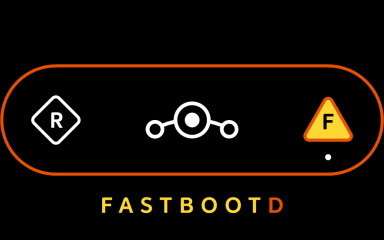
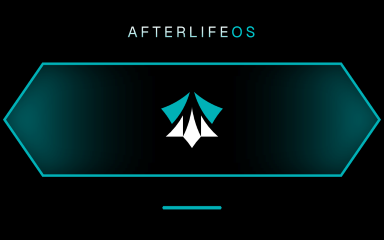
recovery_ui: Adapt images for AfterlifeOS

diff --git a/recovery_ui/screen_ui.cpp b/recovery_ui/screen_ui.cpp
@@ -590,15 +590,15 @@ void ScreenRecoveryUI::SetColor(UIElement e) const {
       break;
     case UIElement::INFO:
       if (fastbootd_logo_enabled_)
-        gr_color(0xfd, 0xd8, 0x35, 255);
-      else
-        gr_color(0xf8, 0x90, 0xff, 255);
+       gr_color(0x22, 0x7b, 0xf6, 255);
+    else
+       gr_color(0, 191, 255, 255);
       break;
     case UIElement::HEADER:
       if (fastbootd_logo_enabled_)
-        gr_color(0xfd, 0xd8,0x35, 255);
-      else
-        gr_color(0xf8, 0x90, 0xff, 255);
+       gr_color(0x22, 0x7b, 0xf6, 255);
+    else
+       gr_color(0, 191, 255, 255);
       break;
     case UIElement::MENU:
       gr_color(0xd8, 0xd8, 0xd8, 255);
@@ -606,9 +606,9 @@ void ScreenRecoveryUI::SetColor(UIElement e) const {
     case UIElement::MENU_SEL_BG:
     case UIElement::SCROLLBAR:
       if (fastbootd_logo_enabled_)
-        gr_color(0xe6, 0x51, 0x00, 255);
-      else
-        gr_color(0x7c, 0x4d, 0xff, 255);
+       gr_color(0x22, 0x7b, 0xf6, 255);
+    else
+       gr_color(0, 72, 190, 255);
       break;
     case UIElement::MENU_SEL_BG_ACTIVE:
       gr_color(0, 156, 100, 255);
